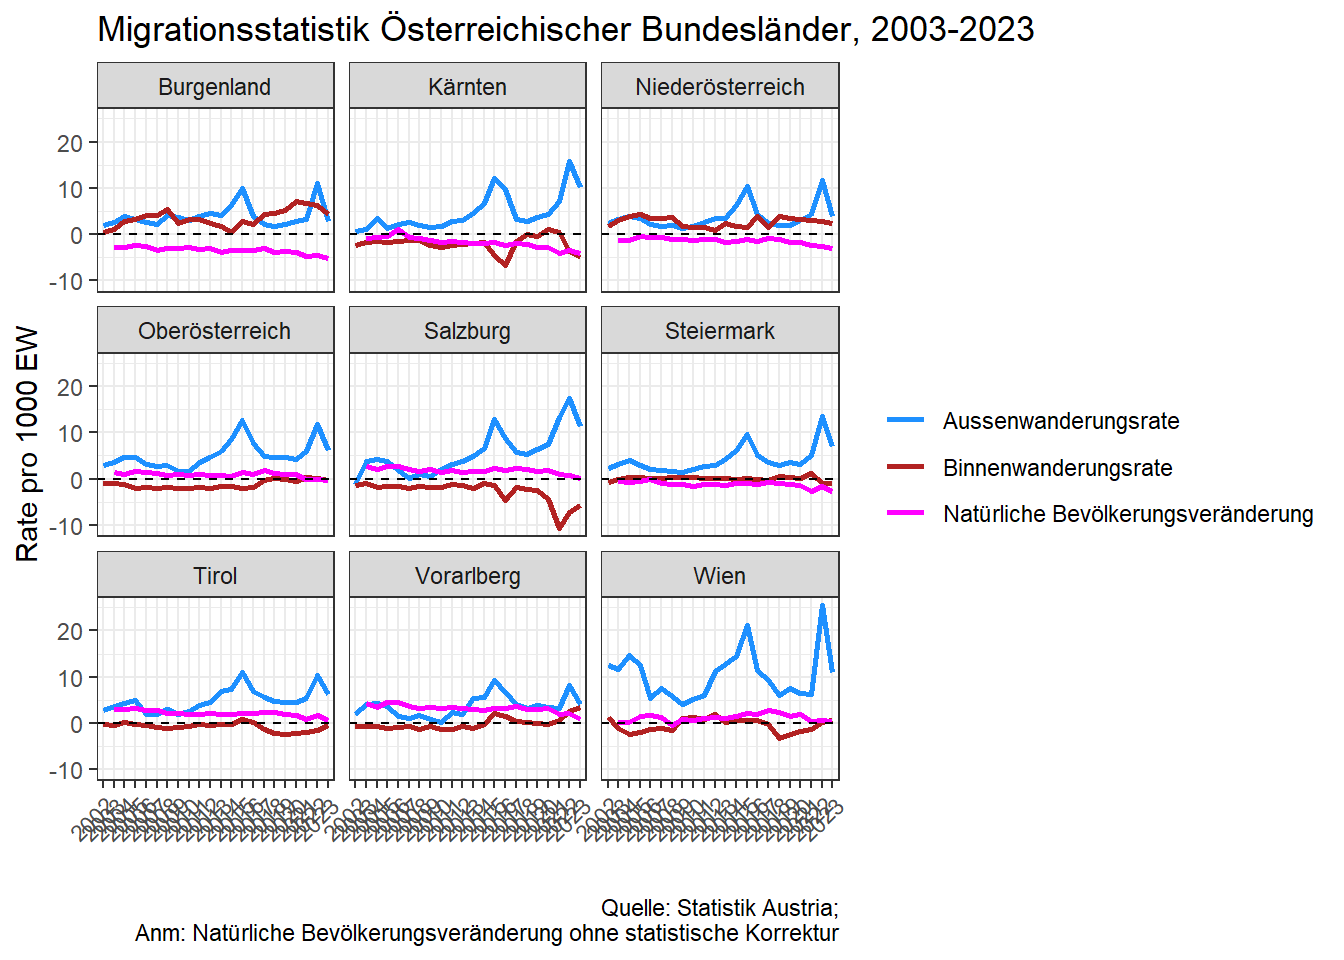
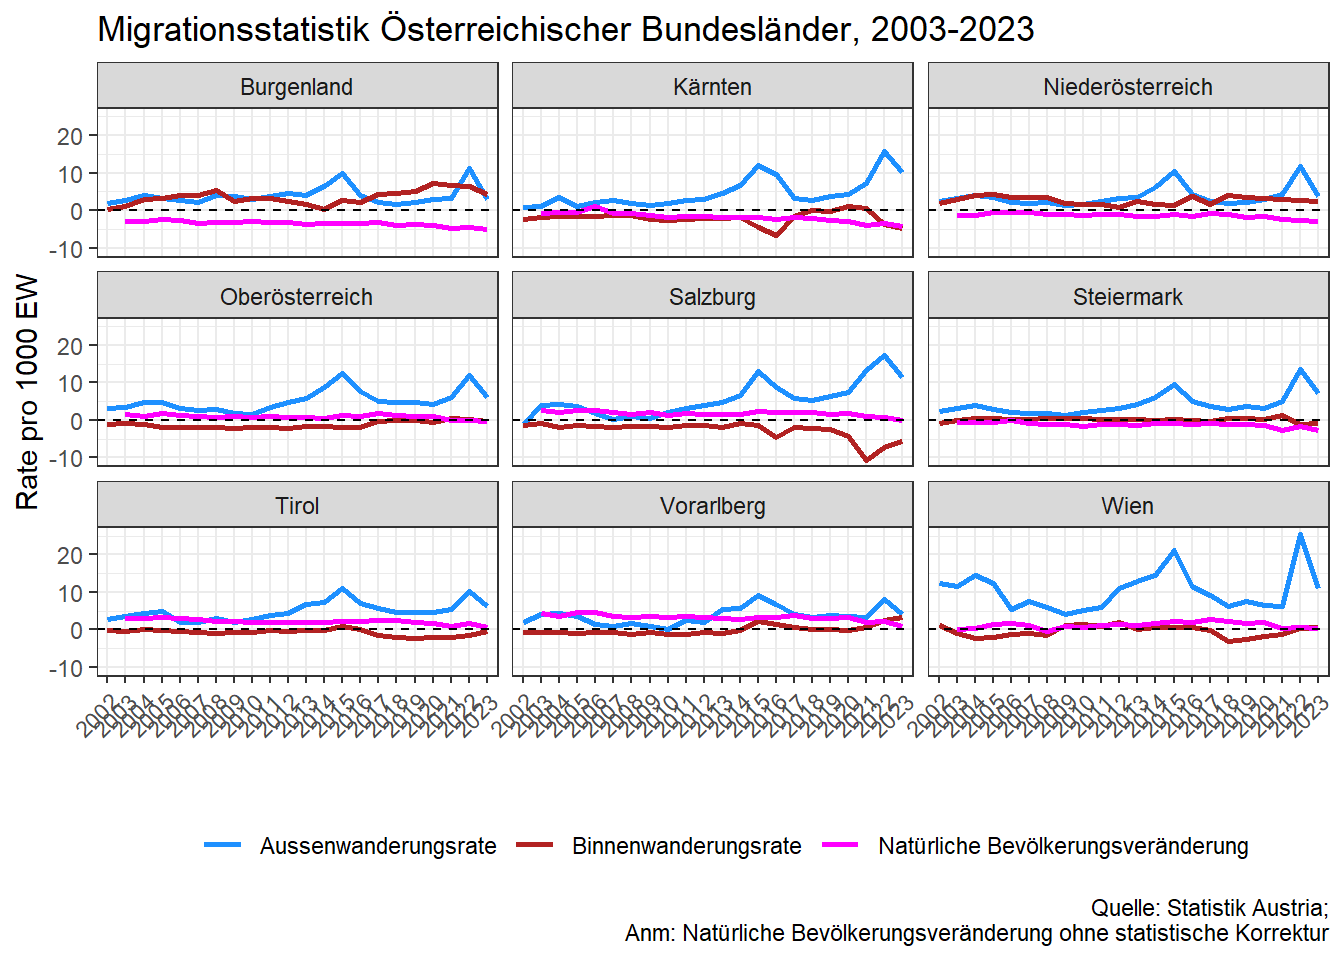
update

diff --git a/docs/02_data_manipulation.html b/docs/02_data_manipulation.html
@@ -201,8 +201,11 @@ window.Quarto = {
   </div>
 </li>
         <li class="sidebar-item">
- <span class="menu-text">05_pop_pyramid.qmd</span>
-  </li>
+  <div class="sidebar-item-container"> 
+  <a href="./06_pop_pyramid.html" class="sidebar-item-text sidebar-link">
+ <span class="menu-text">Skript 5: Bevölkerungspyramide</span></a>
+  </div>
+</li>
     </ul>
     </div>
 </nav>
@@ -761,7 +764,8 @@ argument.</code></pre>
 <span id="cb48-14"><a href="#cb48-14" aria-hidden="true" tabindex="-1"></a>       <span class="at">title =</span> <span class="st">"Migrationsstatistik Österreichischer Bundesländer, 2003-2023"</span>,</span>
 <span id="cb48-15"><a href="#cb48-15" aria-hidden="true" tabindex="-1"></a>       <span class="at">caption =</span> <span class="st">"Quelle: Statistik Austria;</span><span class="sc">\n</span><span class="st"> Anm: Natürliche Bevölkerungsveränderung ohne statistische Korrektur"</span>)<span class="sc">+</span></span>
 <span id="cb48-16"><a href="#cb48-16" aria-hidden="true" tabindex="-1"></a>    <span class="fu">theme_bw</span>()<span class="sc">+</span></span>
-<span id="cb48-17"><a href="#cb48-17" aria-hidden="true" tabindex="-1"></a>  <span class="fu">theme</span>(<span class="at">axis.text.x =</span> <span class="fu">element_text</span>(<span class="at">angle =</span> <span class="dv">45</span>, <span class="at">hjust =</span> <span class="dv">1</span>))</span></code></pre></div><button title="Copy to Clipboard" class="code-copy-button"><i class="bi"></i></button></div>
+<span id="cb48-17"><a href="#cb48-17" aria-hidden="true" tabindex="-1"></a>  <span class="fu">theme</span>(<span class="at">axis.text.x =</span> <span class="fu">element_text</span>(<span class="at">angle =</span> <span class="dv">45</span>, <span class="at">hjust =</span> <span class="dv">1</span>),</span>
+<span id="cb48-18"><a href="#cb48-18" aria-hidden="true" tabindex="-1"></a>        <span class="at">legend.position =</span> <span class="st">"bottom"</span>)</span></code></pre></div><button title="Copy to Clipboard" class="code-copy-button"><i class="bi"></i></button></div>
 <div class="cell-output cell-output-stderr">
 <pre><code>Warning: Removed 9 rows containing missing values or values outside the scale range
 (`geom_line()`).</code></pre>

diff --git a/docs/06_pop_pyramid.html b/docs/06_pop_pyramid.html
@@ -117,7 +117,7 @@ pre > code.sourceCode > span > a:first-child::before { text-decoration: underlin
       <button type="button" class="quarto-btn-toggle btn" data-bs-toggle="collapse" role="button" data-bs-target=".quarto-sidebar-collapse-item" aria-controls="quarto-sidebar" aria-expanded="false" aria-label="Toggle sidebar navigation" onclick="if (window.quartoToggleHeadroom) { window.quartoToggleHeadroom(); }">
         <i class="bi bi-layout-text-sidebar-reverse"></i>
       </button>
-        <nav class="quarto-page-breadcrumbs" aria-label="breadcrumb"><ol class="breadcrumb"><li class="breadcrumb-item">Skript 5: Bevölkerungspyramide</li></ol></nav>
+        <nav class="quarto-page-breadcrumbs" aria-label="breadcrumb"><ol class="breadcrumb"><li class="breadcrumb-item"><a href="./06_pop_pyramid.html">Skript 5: Bevölkerungspyramide</a></li></ol></nav>
         <a class="flex-grow-1" role="navigation" data-bs-toggle="collapse" data-bs-target=".quarto-sidebar-collapse-item" aria-controls="quarto-sidebar" aria-expanded="false" aria-label="Toggle sidebar navigation" onclick="if (window.quartoToggleHeadroom) { window.quartoToggleHeadroom(); }">      
         </a>
       <button type="button" class="btn quarto-search-button" aria-label="Search" onclick="window.quartoOpenSearch();">
@@ -172,8 +172,11 @@ pre > code.sourceCode > span > a:first-child::before { text-decoration: underlin
   </div>
 </li>
         <li class="sidebar-item">
- <span class="menu-text">05_pop_pyramid.qmd</span>
-  </li>
+  <div class="sidebar-item-container"> 
+  <a href="./06_pop_pyramid.html" class="sidebar-item-text sidebar-link active">
+ <span class="menu-text">Skript 5: Bevölkerungspyramide</span></a>
+  </div>
+</li>
     </ul>
     </div>
 </nav>

diff --git a/docs/03_sequenzanalyse.html b/docs/03_sequenzanalyse.html
@@ -172,8 +172,11 @@ pre > code.sourceCode > span > a:first-child::before { text-decoration: underlin
   </div>
 </li>
         <li class="sidebar-item">
- <span class="menu-text">05_pop_pyramid.qmd</span>
-  </li>
+  <div class="sidebar-item-container"> 
+  <a href="./06_pop_pyramid.html" class="sidebar-item-text sidebar-link">
+ <span class="menu-text">Skript 5: Bevölkerungspyramide</span></a>
+  </div>
+</li>
     </ul>
     </div>
 </nav>
@@ -504,7 +507,7 @@ stark negativ       negativ       positiv stark positiv
 <pre><code> [&gt;] computing distances using the DHD metric</code></pre>
 </div>
 <div class="cell-output cell-output-stderr">
-<pre><code> [&gt;] elapsed time: 0.16 secs</code></pre>
+<pre><code> [&gt;] elapsed time: 0.15 secs</code></pre>
 </div>
 <div class="code-copy-outer-scaffold"><div class="sourceCode cell-code" id="cb50"><pre class="sourceCode r code-with-copy"><code class="sourceCode r"><span id="cb50-1"><a href="#cb50-1" aria-hidden="true" tabindex="-1"></a>wardcluster_DHD <span class="ot">&lt;-</span> <span class="fu">hclust</span>(<span class="fu">as.dist</span>(dist.dhd), <span class="at">method =</span> <span class="st">"ward.D"</span>)</span>
 <span id="cb50-2"><a href="#cb50-2" aria-hidden="true" tabindex="-1"></a></span>

diff --git a/docs/01_basics.html b/docs/01_basics.html
@@ -172,8 +172,11 @@ pre > code.sourceCode > span > a:first-child::before { text-decoration: underlin
   </div>
 </li>
         <li class="sidebar-item">
- <span class="menu-text">05_pop_pyramid.qmd</span>
-  </li>
+  <div class="sidebar-item-container"> 
+  <a href="./06_pop_pyramid.html" class="sidebar-item-text sidebar-link">
+ <span class="menu-text">Skript 5: Bevölkerungspyramide</span></a>
+  </div>
+</li>
     </ul>
     </div>
 </nav>

diff --git a/docs/04_mapping.html b/docs/04_mapping.html
@@ -172,8 +172,11 @@ pre > code.sourceCode > span > a:first-child::before { text-decoration: underlin
   </div>
 </li>
         <li class="sidebar-item">
- <span class="menu-text">05_pop_pyramid.qmd</span>
-  </li>
+  <div class="sidebar-item-container"> 
+  <a href="./06_pop_pyramid.html" class="sidebar-item-text sidebar-link">
+ <span class="menu-text">Skript 5: Bevölkerungspyramide</span></a>
+  </div>
+</li>
     </ul>
     </div>
 </nav>

diff --git a/docs/05_regional_profile.html b/docs/05_regional_profile.html
@@ -172,8 +172,11 @@ pre > code.sourceCode > span > a:first-child::before { text-decoration: underlin
   </div>
 </li>
         <li class="sidebar-item">
- <span class="menu-text">05_pop_pyramid.qmd</span>
-  </li>
+  <div class="sidebar-item-container"> 
+  <a href="./06_pop_pyramid.html" class="sidebar-item-text sidebar-link">
+ <span class="menu-text">Skript 5: Bevölkerungspyramide</span></a>
+  </div>
+</li>
     </ul>
     </div>
 </nav>

diff --git a/docs/about.html b/docs/about.html
@@ -172,8 +172,11 @@ pre > code.sourceCode > span > a:first-child::before { text-decoration: underlin
   </div>
 </li>
         <li class="sidebar-item">
- <span class="menu-text">05_pop_pyramid.qmd</span>
-  </li>
+  <div class="sidebar-item-container"> 
+  <a href="./06_pop_pyramid.html" class="sidebar-item-text sidebar-link">
+ <span class="menu-text">Skript 5: Bevölkerungspyramide</span></a>
+  </div>
+</li>
     </ul>
     </div>
 </nav>

diff --git a/docs/index.html b/docs/index.html
@@ -137,8 +137,11 @@ ul.task-list li input[type="checkbox"] {
   </div>
 </li>
         <li class="sidebar-item">
- <span class="menu-text">05_pop_pyramid.qmd</span>
-  </li>
+  <div class="sidebar-item-container"> 
+  <a href="./06_pop_pyramid.html" class="sidebar-item-text sidebar-link">
+ <span class="menu-text">Skript 5: Bevölkerungspyramide</span></a>
+  </div>
+</li>
     </ul>
     </div>
 </nav>
